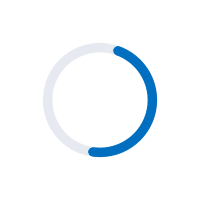
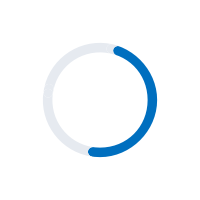
Improve bg svg

diff --git a/icons.html b/icons.html
@@ -3,10 +3,9 @@
 <iron-iconset-svg name="d2l-loading-spinner" size="42">
 	<svg>
 	    <defs>
-			<g id="bg" fill-rule="evenodd" transform="translate(5 5)">
-				<circle fill="#FFF" cx="16" cy="16" r="16"/>
-				<circle cx="16" cy="16" r="12"/>
-				<circle fill="#FFF" cx="16" cy="16" r="10"/>
+			<g id="bg" fill="none" fill-rule="evenodd" transform="translate(5 5)">
+				<circle stroke="none" fill="#FFF" cx="16" cy="16" r="16"/>
+				<circle stroke-width="2" cx="16" cy="16" r="11"/>
 			</g>
 			<g id="slice" fill="none" fill-rule="evenodd">
 				<path d="M24 42h8c0-17.673-14.327-32-32-32v8c1.105 0 2 .895 2 2s-.895 2-2 2v20h20c0-1.105.895-2 2-2s2 .895 2 2z" fill="#FFF"/>

diff --git a/d2l-loading-spinner.html b/d2l-loading-spinner.html
@@ -19,6 +19,7 @@
 				position: absolute;
 				--iron-icon-width: 100%;
 				--iron-icon-height: 100%;
+				--iron-icon-stroke-color: currentcolor;
 				top: 0;
 				transform-origin: left bottom;
 			}
